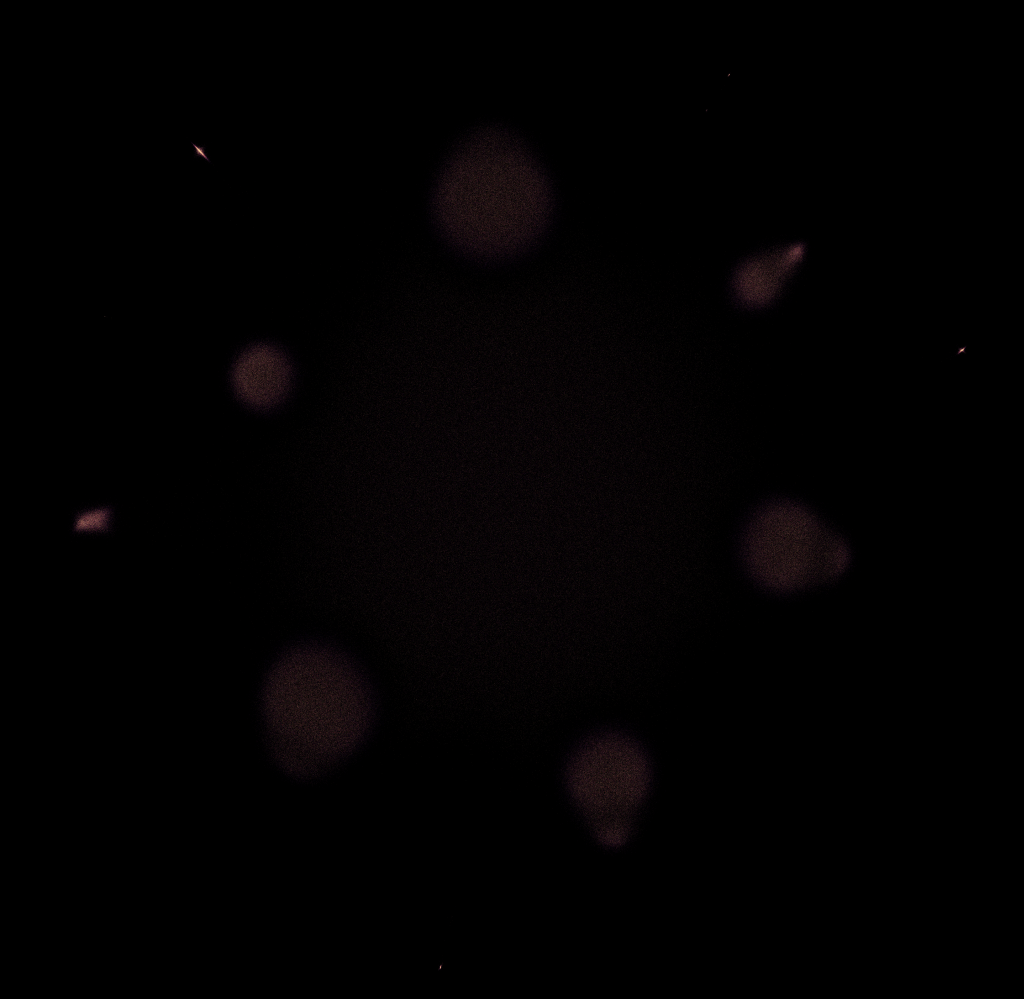
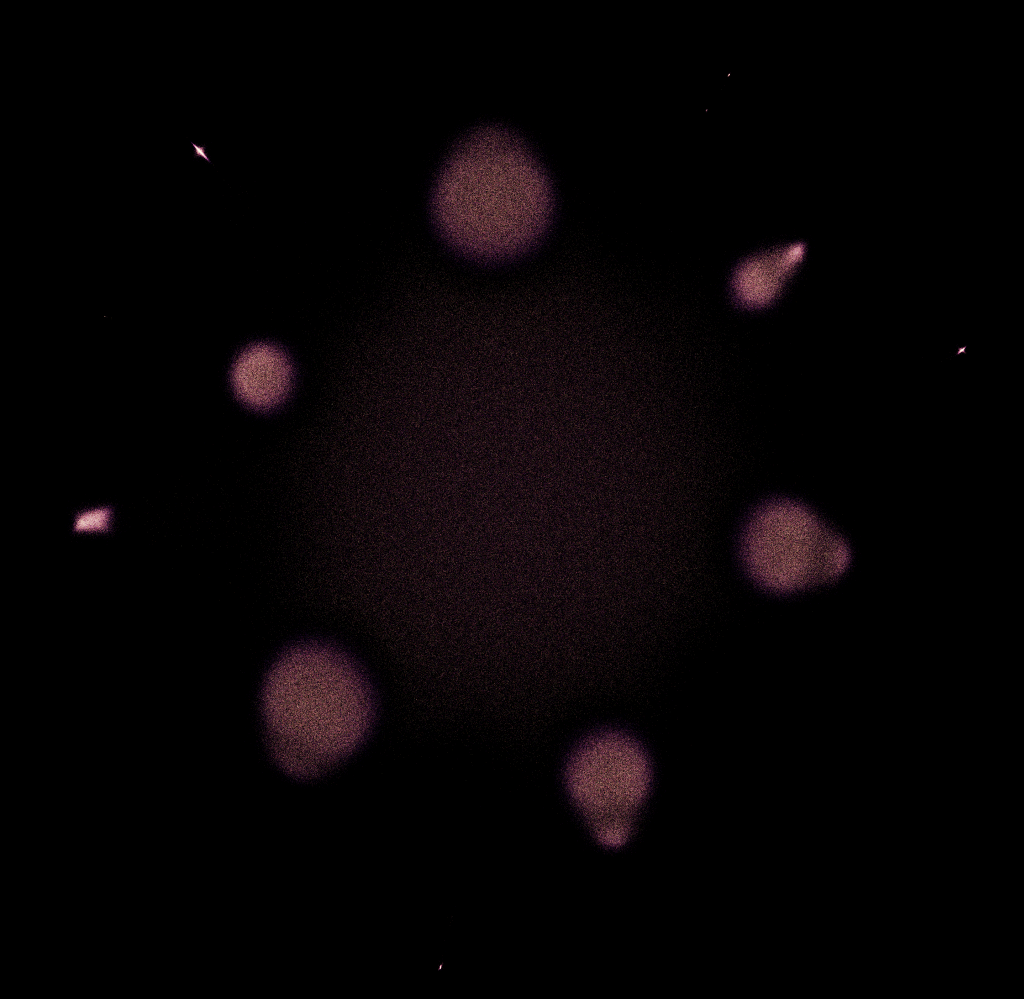
Updated random image to be clearer

diff --git a/umap_primes/index.md.html b/umap_primes/index.md.html
@@ -132,7 +132,8 @@ is to rerun the layout algorithm with a similar, sparse binary matrix, but with 
 To test this, I created a 1000000x78628 sparse matrix with the same density of 1s as the integer representation (approx 0.24% of the values being 1) and 
 reran the algorithm. The result is this:
 
-![A random control; layout of random points with same density and dimension](primes_umap_random_crop.png)
+![A random control; layout of random points with same density and dimension. Brightness artificially boosted to make
+results clearer.](primes_umap_random_crop.png)
 
 The same plasma colour map is used as in the first plot. The result **isn't** just random noise, so there clearly is some artifacting going on. I am 
 not sure what the blobby clusters represent, but they are possibly related to the count of 1s in each vector. Note, however, that the colouring
